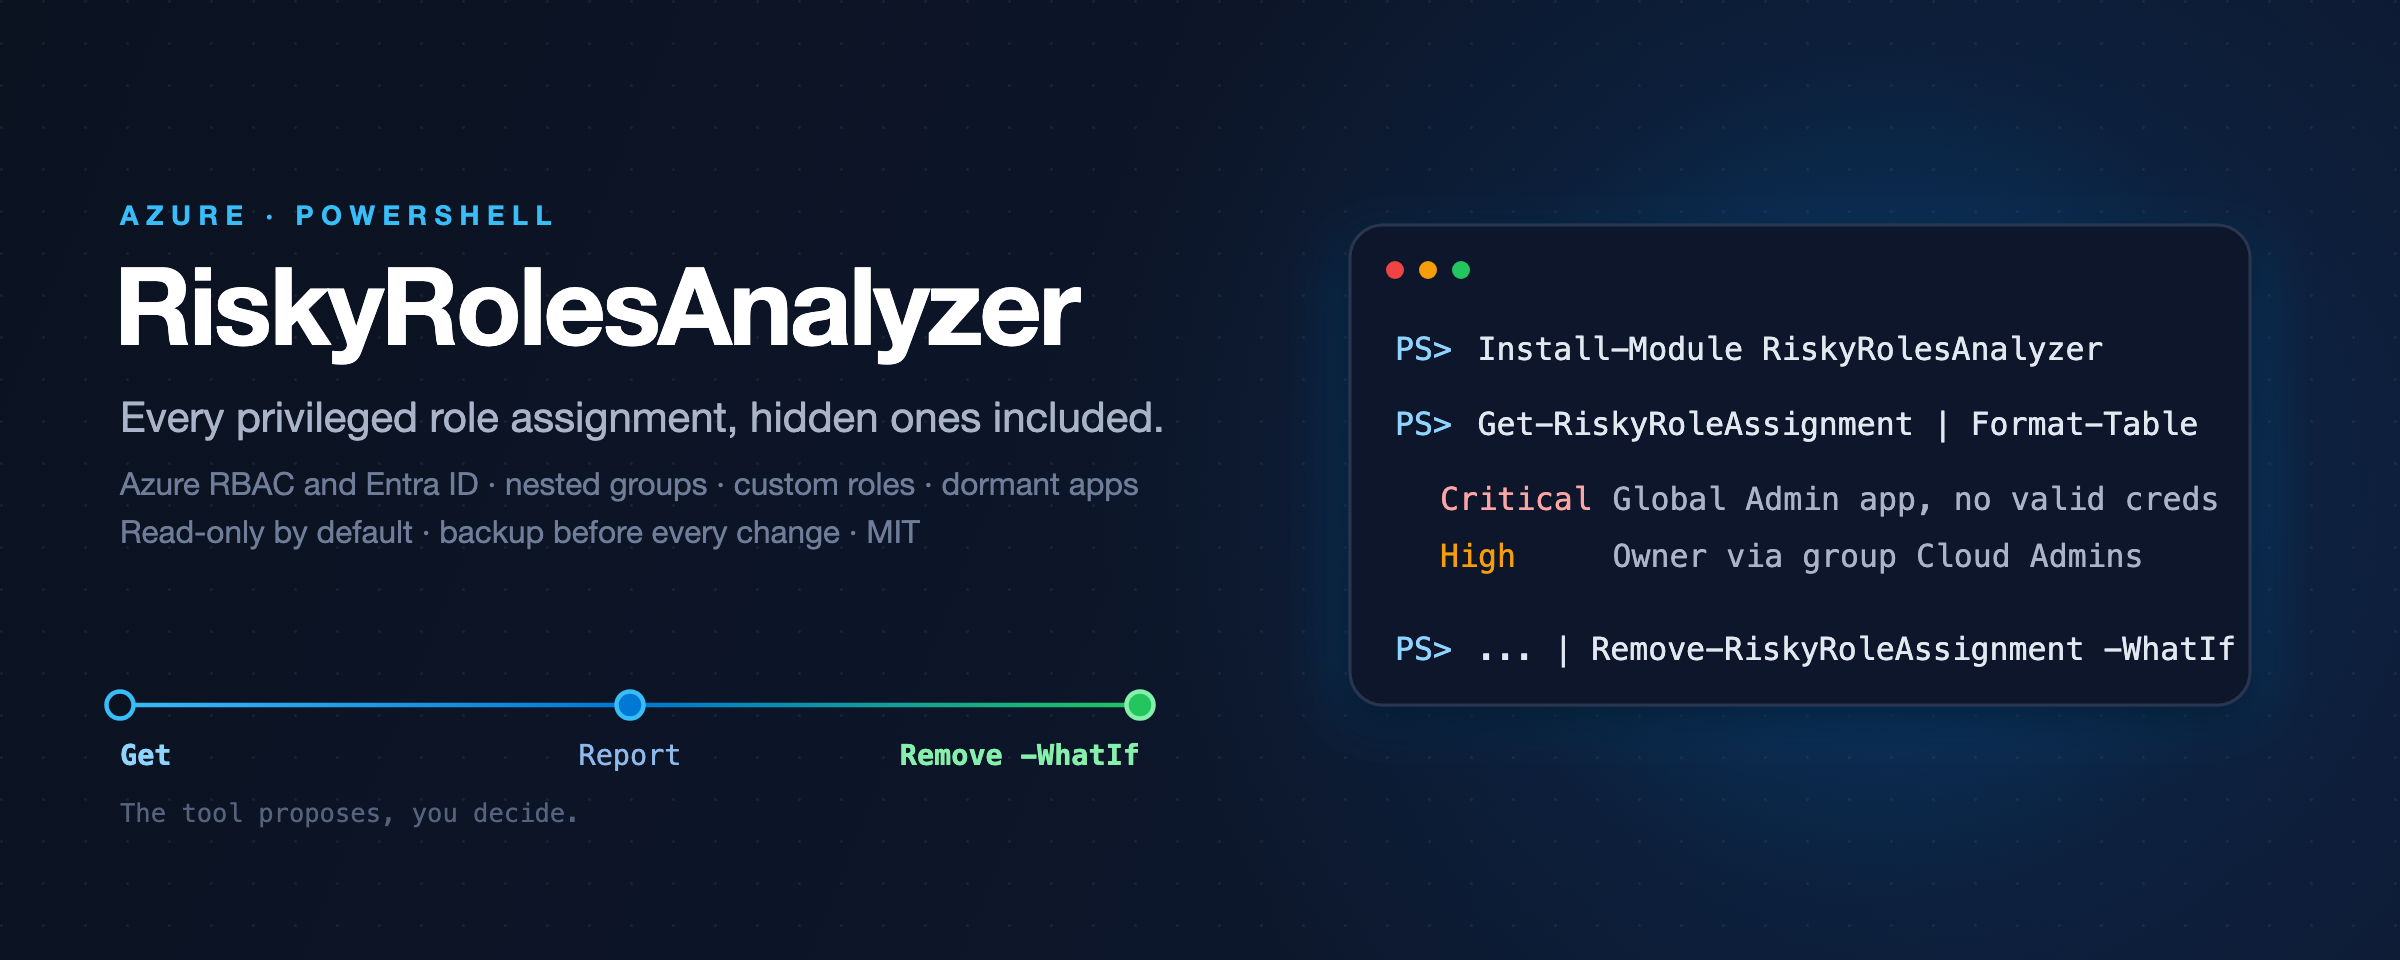
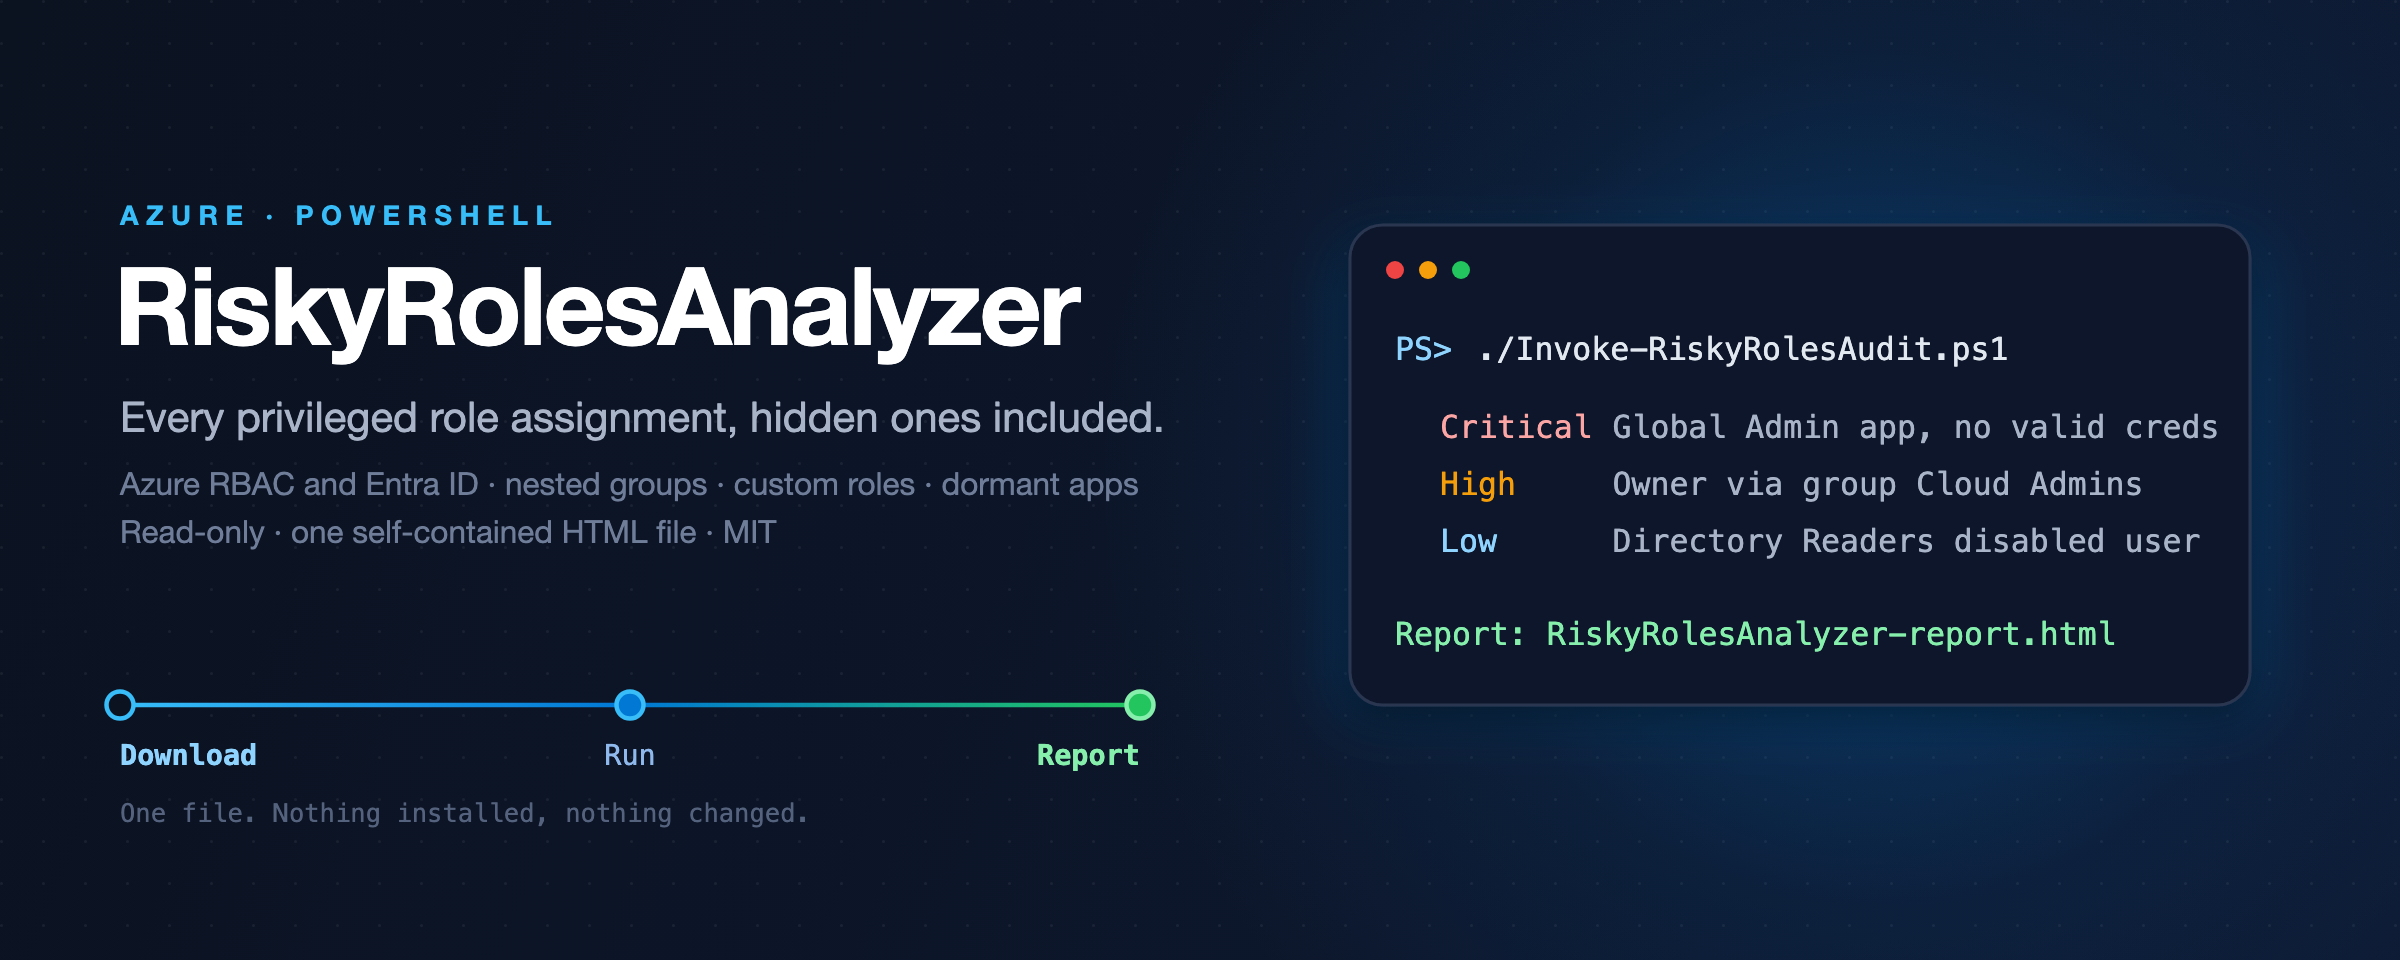
Show the script in the hero and the social preview
Both images still opened with Install-Module and ended with a removal, which is the
old story. They now show what someone actually does: run one file, read three findings,
open the report. The progress bar reads Download, Run, Report.

Rendered at the 1.5x the recipe asks for; the earlier pass in this session used 1x and
the wrong height, which is why the files got smaller.

diff --git a/docs/images/hero.source.html b/docs/images/hero.source.html
@@ -41,17 +41,17 @@
   <text x="76" y="230" fill="#ffffff" font-size="72" font-weight="800" letter-spacing="-2">RiskyRolesAnalyzer</text>
   <text x="80" y="288" fill="#aab4c8" font-size="28" font-weight="400">Every privileged role assignment, hidden ones included.</text>
   <text x="80" y="330" fill="#6f7d99" font-size="21">Azure RBAC and Entra ID · nested groups · custom roles · dormant apps</text>
-  <text x="80" y="362" fill="#6f7d99" font-size="21">Read-only by default · backup before every change · MIT</text>
+  <text x="80" y="362" fill="#6f7d99" font-size="21">Read-only · one self-contained HTML file · MIT</text>
 
   <g class="mono" font-size="19">
     <line x1="80" y1="470" x2="760" y2="470" stroke="url(#chain)" stroke-width="3" stroke-linecap="round"/>
     <circle cx="80" cy="470" r="9" fill="#0b1220" stroke="#38bdf8" stroke-width="3"/>
-    <text x="80" y="510" fill="#8fd3ff" text-anchor="start" font-weight="600">Get</text>
+    <text x="80" y="510" fill="#8fd3ff" text-anchor="start" font-weight="600">Download</text>
     <circle cx="420" cy="470" r="9" fill="#0078d4" stroke="#38bdf8" stroke-width="3"/>
-    <text x="420" y="510" fill="#8fb8ec" text-anchor="middle">Report</text>
+    <text x="420" y="510" fill="#8fb8ec" text-anchor="middle">Run</text>
     <circle cx="760" cy="470" r="9" fill="#22c55e" stroke="#86efac" stroke-width="3"/>
-    <text x="760" y="510" fill="#86efac" text-anchor="end" font-weight="600">Remove -WhatIf</text>
-    <text x="80" y="548" fill="#55627d" font-size="17">The tool proposes, you decide.</text>
+    <text x="760" y="510" fill="#86efac" text-anchor="end" font-weight="600">Report</text>
+    <text x="80" y="548" fill="#55627d" font-size="17">One file. Nothing installed, nothing changed.</text>
   </g>
 
   <!-- right: terminal card. Replace the lines with the tool's real quick start. -->
@@ -62,11 +62,11 @@
   </g>
   <circle cx="930" cy="180" r="6" fill="#ef4444"/><circle cx="952" cy="180" r="6" fill="#f59e0b"/><circle cx="974" cy="180" r="6" fill="#22c55e"/>
   <g class="mono" font-size="21">
-    <text x="930" y="240" fill="#8fd3ff">PS&gt; </text><text x="985" y="240" fill="#e2e8f0">Install-Module RiskyRolesAnalyzer</text>
-    <text x="930" y="290" fill="#8fd3ff">PS&gt; </text><text x="985" y="290" fill="#e2e8f0">Get-RiskyRoleAssignment | Format-Table</text>
-    <text x="960" y="340" fill="#fca5a5">Critical</text><text x="1075" y="340" fill="#aab4c8">Global Admin   app, no valid creds</text>
-    <text x="960" y="378" fill="#f59e0b">High</text><text x="1075" y="378" fill="#aab4c8">Owner via group   Cloud Admins</text>
-    <text x="930" y="440" fill="#8fd3ff">PS&gt; </text><text x="985" y="440" fill="#e2e8f0">... | Remove-RiskyRoleAssignment -WhatIf</text>
+    <text x="930" y="240" fill="#8fd3ff">PS&gt; </text><text x="985" y="240" fill="#e2e8f0">./Invoke-RiskyRolesAudit.ps1</text>
+    <text x="960" y="292" fill="#fca5a5">Critical</text><text x="1075" y="292" fill="#aab4c8">Global Admin   app, no valid creds</text>
+    <text x="960" y="330" fill="#f59e0b">High</text><text x="1075" y="330" fill="#aab4c8">Owner via group   Cloud Admins</text>
+    <text x="960" y="368" fill="#8fd3ff">Low</text><text x="1075" y="368" fill="#aab4c8">Directory Readers   disabled user</text>
+    <text x="930" y="430" fill="#86efac">Report: RiskyRolesAnalyzer-report.html</text>
   </g>
 </svg>
 </body></html>

diff --git a/docs/images/social-preview.source.html b/docs/images/social-preview.source.html
@@ -42,10 +42,10 @@
   </g>
   <circle cx="370" cy="290" r="6" fill="#ef4444"/><circle cx="392" cy="290" r="6" fill="#f59e0b"/><circle cx="414" cy="290" r="6" fill="#22c55e"/>
   <g class="mono" font-size="21">
-    <text x="370" y="345" fill="#8fd3ff">PS&gt; </text><text x="425" y="345" fill="#e2e8f0">Install-Module RiskyRolesAnalyzer</text>
-    <text x="370" y="393" fill="#8fd3ff">PS&gt; </text><text x="425" y="393" fill="#e2e8f0">Get-RiskyRoleAssignment | Format-Table</text>
-    <text x="400" y="441" fill="#fca5a5">Critical</text><text x="515" y="441" fill="#aab4c8">Global Admin   app, no valid creds</text>
-    <text x="370" y="505" fill="#8fd3ff">PS&gt; </text><text x="425" y="505" fill="#e2e8f0">... | Remove-RiskyRoleAssignment -WhatIf</text>
+    <text x="370" y="345" fill="#8fd3ff">PS&gt; </text><text x="425" y="345" fill="#e2e8f0">./Invoke-RiskyRolesAudit.ps1</text>
+    <text x="400" y="400" fill="#fca5a5">Critical</text><text x="515" y="400" fill="#aab4c8">Global Admin   app, no valid creds</text>
+    <text x="400" y="440" fill="#f59e0b">High</text><text x="515" y="440" fill="#aab4c8">Owner via group   Cloud Admins</text>
+    <text x="370" y="505" fill="#86efac">Report: RiskyRolesAnalyzer-report.html</text>
   </g>
   <text x="640" y="605" fill="#55627d" font-size="17" text-anchor="middle" class="mono">read-only by default · backup before every change · MIT</text>
 </svg>
